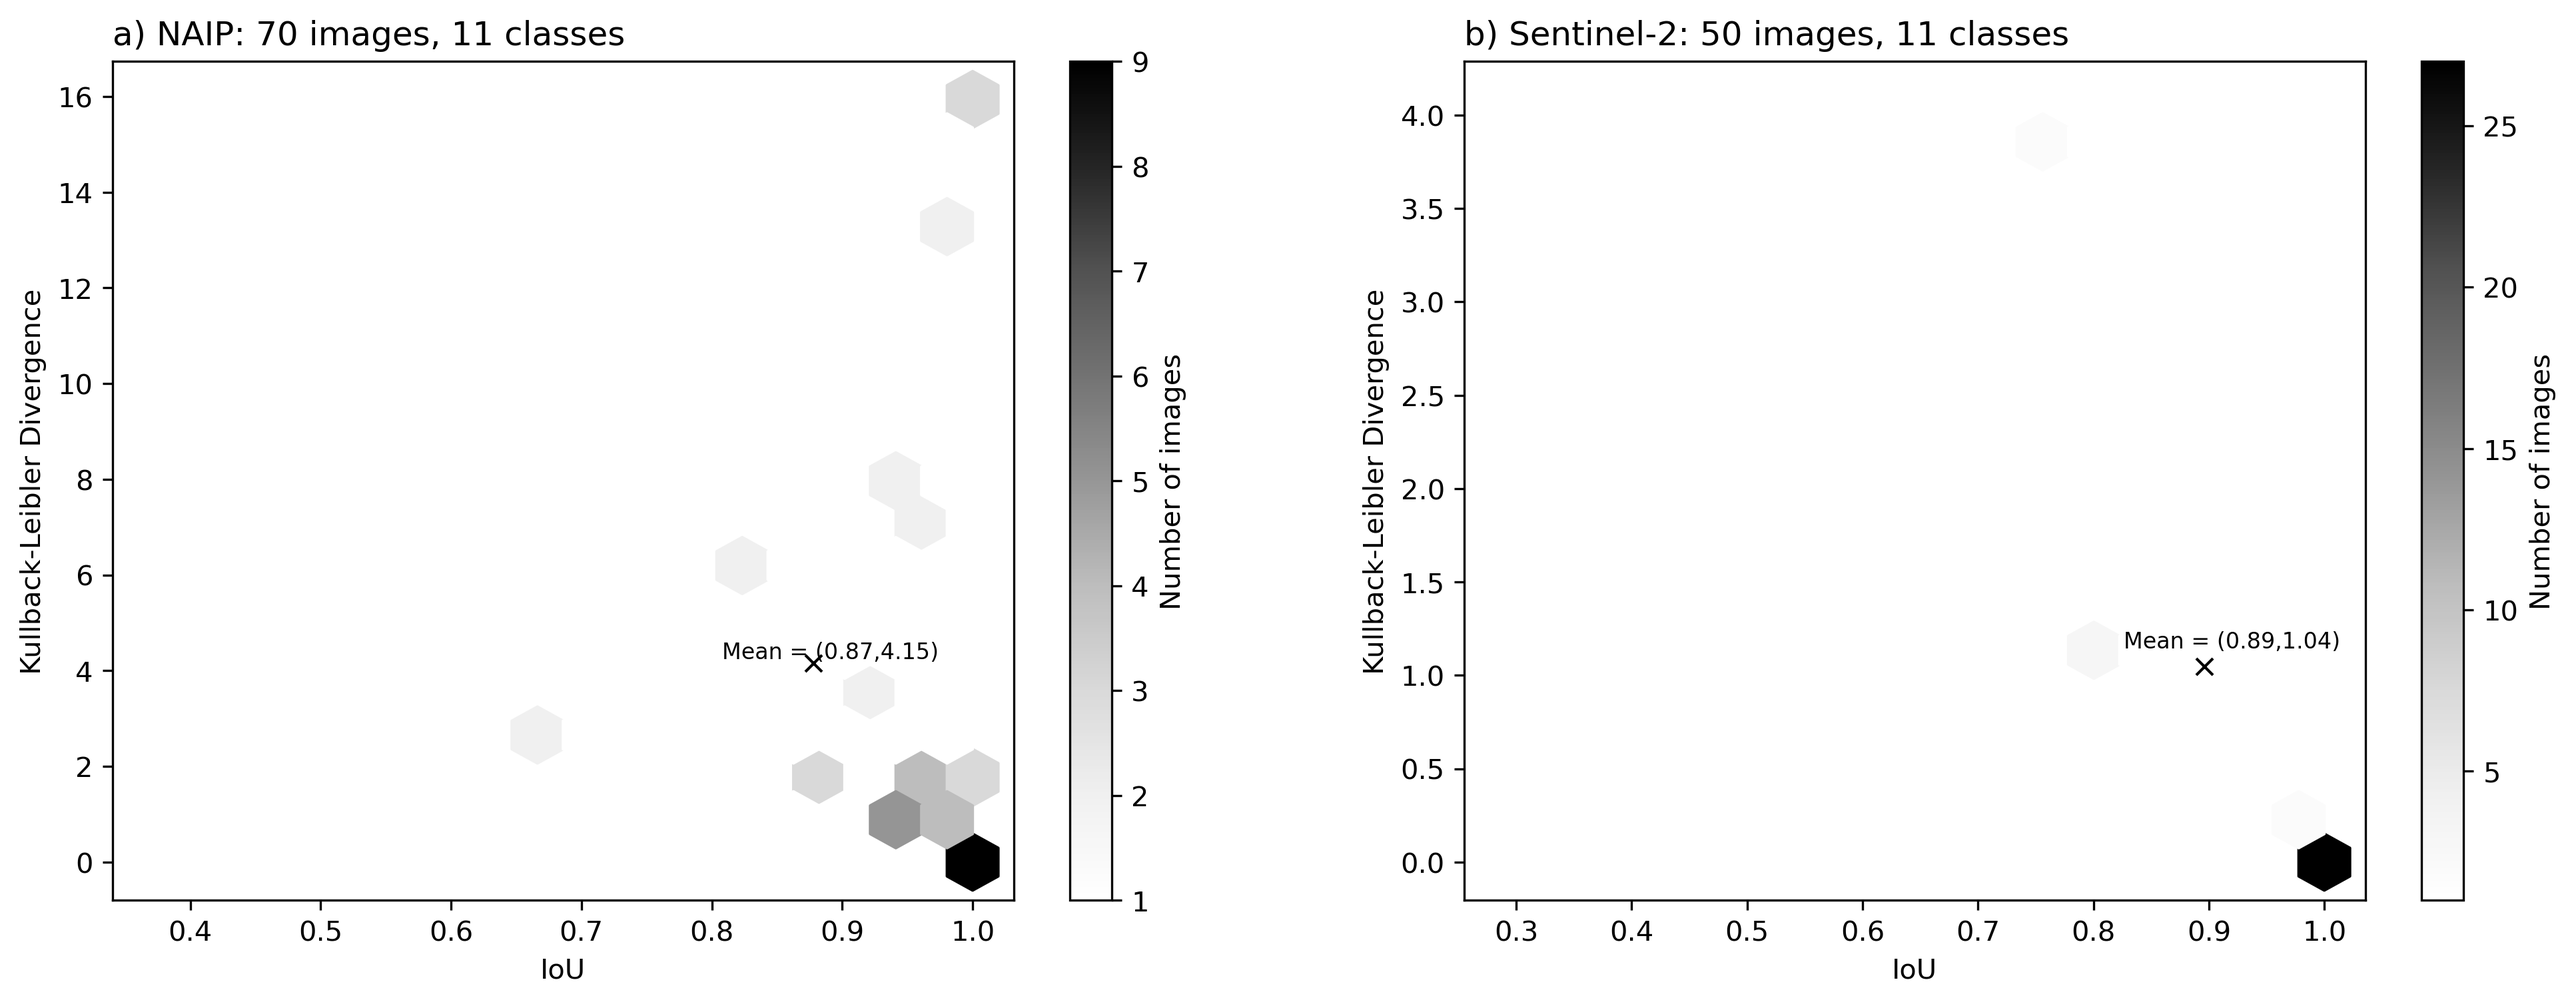
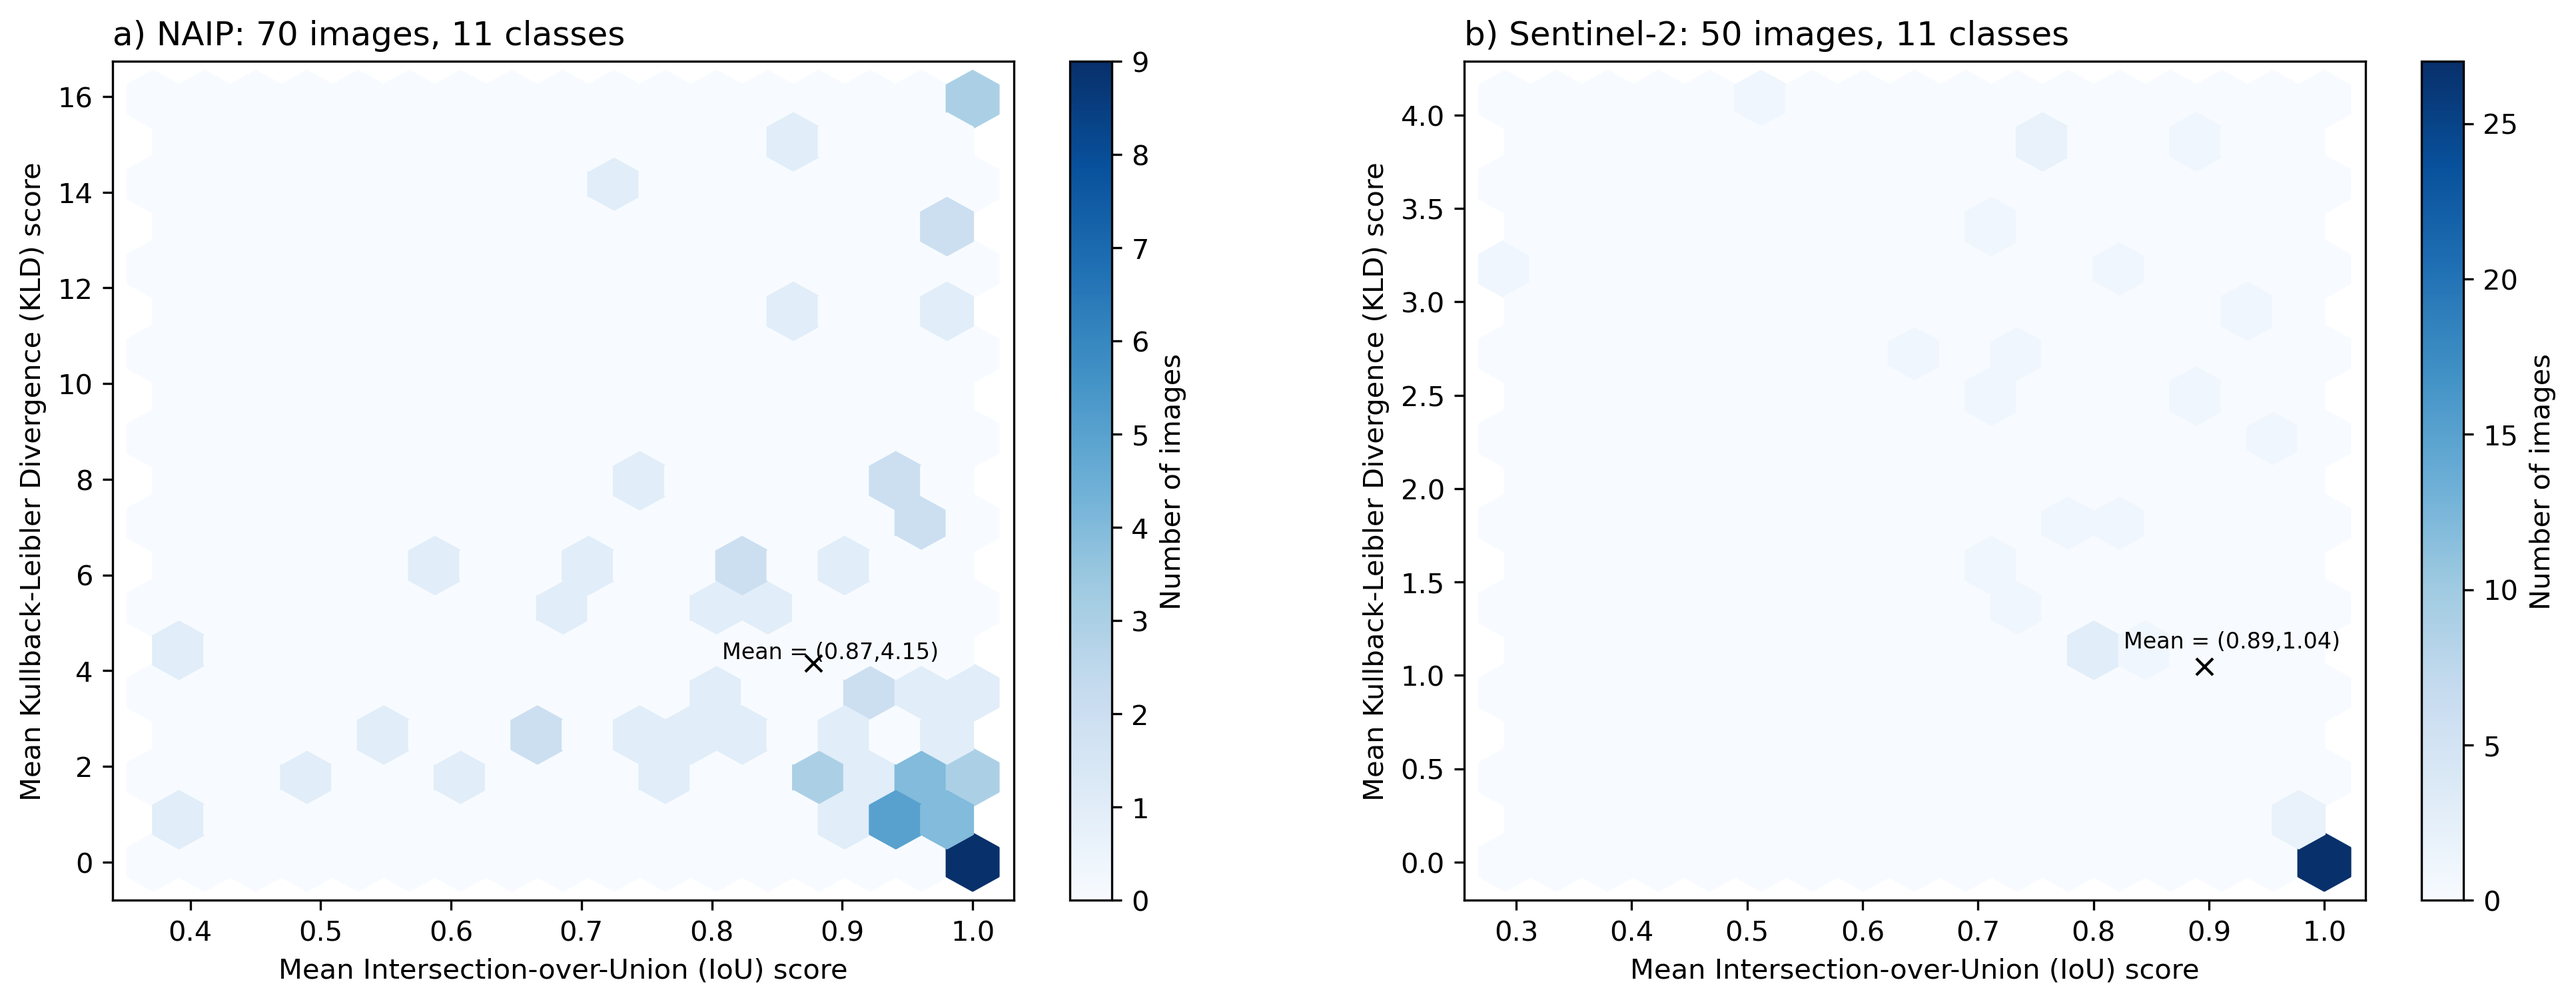
improved agreement plots

diff --git a/scripts/labeler_agreement.py b/scripts/labeler_agreement.py
@@ -77,8 +77,8 @@ def mean_dice_np(y_true, y_pred):
 
 
 data_files = [
-'datasetA_NAIP/A_naip_meta_served.csv',
-'datasetC_S2/C_s2_meta_served.csv'
+'../metadata/A_naip_meta_served.csv',
+'../metadata/C_s2_meta_served.csv'
 ]
 
 roots = [
@@ -144,12 +144,13 @@ for counter, (data_file, root) in enumerate(zip(data_files, roots)):
     iou_scores[iou_scores == 0.0] = 1.0
 
     plt.subplot(2,2,counter+1)
-    plt.hexbin(iou_scores,kld_scores, gridsize=16, cmap='Greys', vmin=1)
+    plt.hexbin(iou_scores,kld_scores, gridsize=16, cmap='Blues', vmin=0)
     cb=plt.colorbar()
     plt.plot(np.mean(iou_scores),np.mean(kld_scores),'kx')
     plt.text(np.mean(iou_scores)-.07,np.mean(kld_scores)+.1,'Mean = ('+str(np.mean(iou_scores))[:4]+','+str(np.mean(kld_scores))[:4]+')', fontsize=8)
     cb.set_label('Number of images')
-    plt.xlabel('IoU'); plt.ylabel('Kullback-Leibler Divergence')
+    plt.xlabel('Mean Intersection-over-Union (IoU) score')
+    plt.ylabel('Mean Kullback-Leibler Divergence (KLD) score')
     if counter==0:
         plt.title('a) NAIP: {} images, {} classes'.format(num_dupes, NCLASSES), loc='left')
     else:
@@ -161,3 +162,84 @@ for counter, (data_file, root) in enumerate(zip(data_files, roots)):
 plt.savefig('../script_plots/agreement_stats_coasttrain_naip_s2.png', dpi=300, bbox_inches='tight')
 plt.close('all')
 
+
+
+
+
+plt.figure(figsize=(16,12))
+
+for counter, (data_file, root) in enumerate(zip(data_files, roots)):
+
+    dataset = pd.read_csv(data_file)
+    NCLASSES = dataset["num_classes"][0]
+
+    try:
+        label_names = ["_".join(a.split("_")[:-2]) for a in dataset["labels"].values]
+    except:
+        label_names = ["_".join(a.split("_")[:-2]) for a in dataset["label_image_filename"].values]
+
+    num_dupes=len(label_names) - len(np.unique(label_names))
+    print("Number of duplicate image pairs: {}".format(num_dupes))
+
+    # get pairs as  a list
+    d = defaultdict(list)  # key - number, value - list of indexes
+
+    for i, n in enumerate(label_names):
+        d[n].append(i)  # add index to list for this number n
+    # duplicates as indices
+    dupes = [v for v in d.values() if len(v) > 1]
+
+    #list of image name roots that are pairs
+    pairs = [(label_names[d[0]], label_names[d[1]]) for d in dupes]
+
+
+    kl = tf.keras.losses.KLDivergence()
+    kld_scores=[]
+    iou_scores=[]; dice_scores=[]
+    # for each pair, find the label image pair names, and read in
+    for p in pairs: 
+        ims = [d for d in dataset["labels"].values if d.startswith(p[0])]
+        im1=imread(root+os.sep+ims[0])
+        im2=imread(root+os.sep+ims[1])
+        # iou_scores.append(iou(im1, im2,NCLASSES))
+
+        nx,ny = im1.shape
+        lstack1 = np.zeros((nx,ny,NCLASSES+1))
+        lstack1[:,:,:NCLASSES+1] = (np.arange(NCLASSES+1) == 1+im1[...,None]-1).astype(int) #one-hot encode
+        lstack2 = np.zeros((nx,ny,NCLASSES+1))
+        lstack2[:,:,:NCLASSES+1] = (np.arange(NCLASSES+1) == 1+im2[...,None]-1).astype(int) #one-hot encode
+
+        dice=mean_dice_np(np.expand_dims(lstack1, 0), np.expand_dims(lstack2, 0))
+        dice_scores.append(float(dice))
+
+        iou=mean_iou_np(np.expand_dims(lstack1, 0), np.expand_dims(lstack2, 0))
+        iou_scores.append(float(iou))
+
+        kld=kl(tf.expand_dims(lstack1, 0), tf.expand_dims(lstack2, 0))
+        kld_scores.append(kld.numpy())
+
+    kld_scores = np.array(kld_scores)
+    iou_scores = np.array(iou_scores)
+    kld_scores[iou_scores == 0.0] = 0.0    
+    iou_scores[iou_scores == 0.0] = 1.0
+
+    plt.subplot(2,2,counter+1)
+    plt.hist(iou_scores, bins=np.linspace(0,1,10))
+    plt.ylim(0,50)
+    plt.vlines(np.mean(iou_scores),0,50, colors='r')
+    #cb=plt.colorbar()
+    #plt.plot(np.mean(iou_scores),np.mean(kld_scores),'kx')
+    plt.text(np.mean(iou_scores)-.15,30,'Mean = '+str(np.mean(iou_scores))[:4], fontsize=8)
+    #cb.set_label('Number of images')
+    plt.xlabel('Mean Intersection-over-Union (IoU) score'); 
+    plt.ylabel('Frequency')
+    if counter==0:
+        plt.title('a) NAIP: {} images, {} classes'.format(num_dupes, NCLASSES), loc='left')
+    else:
+        plt.title('b) Sentinel-2: {} images, {} classes'.format(num_dupes, NCLASSES), loc='left')
+
+    # plt.show()
+
+
+plt.savefig('../script_plots/agreement_stats_coasttrain_naip_s2_IOU.png', dpi=300, bbox_inches='tight')
+plt.close('all')
